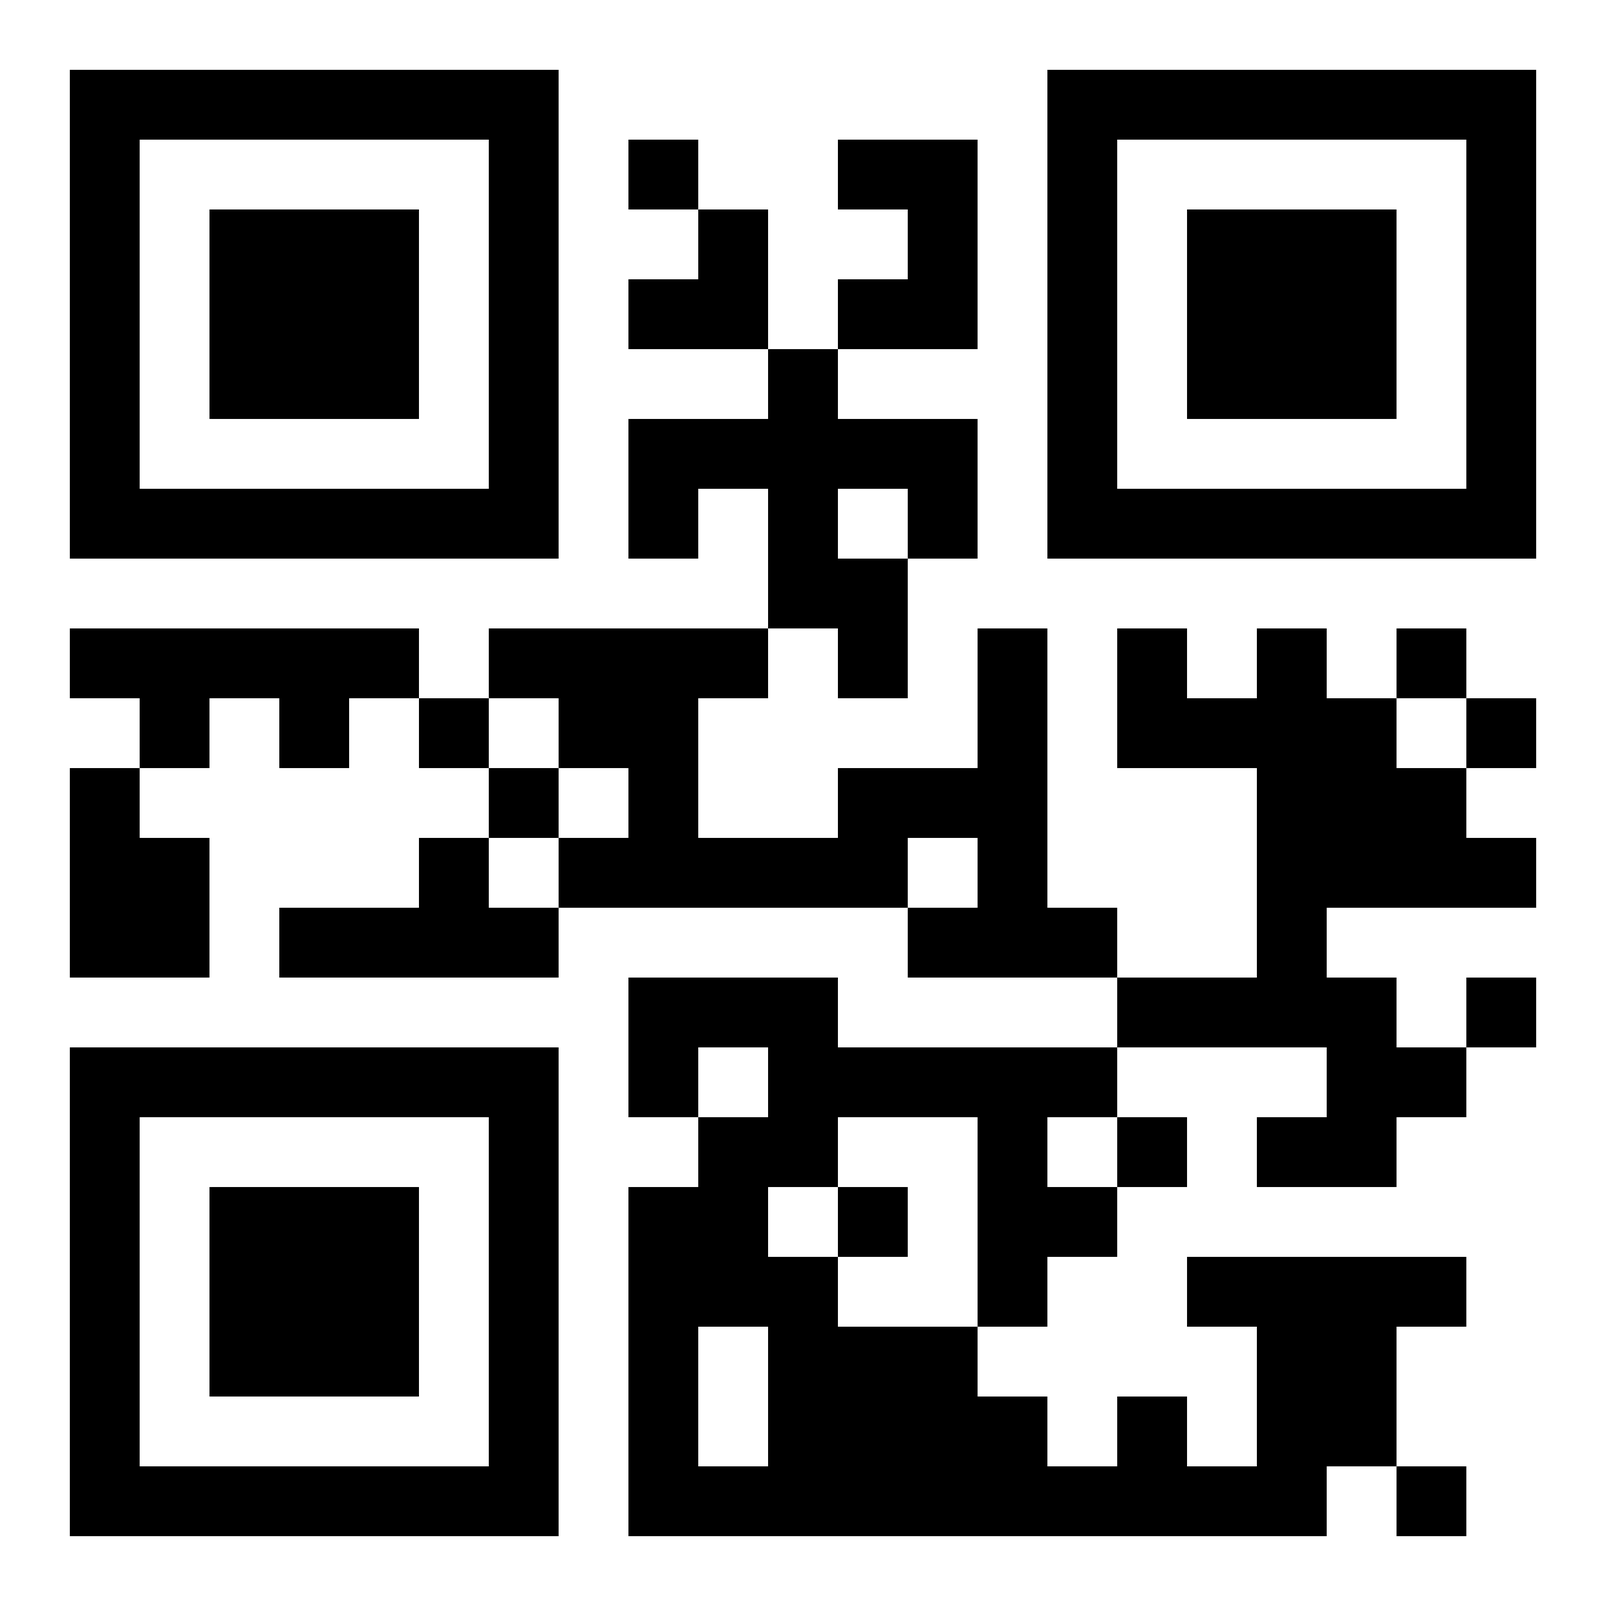
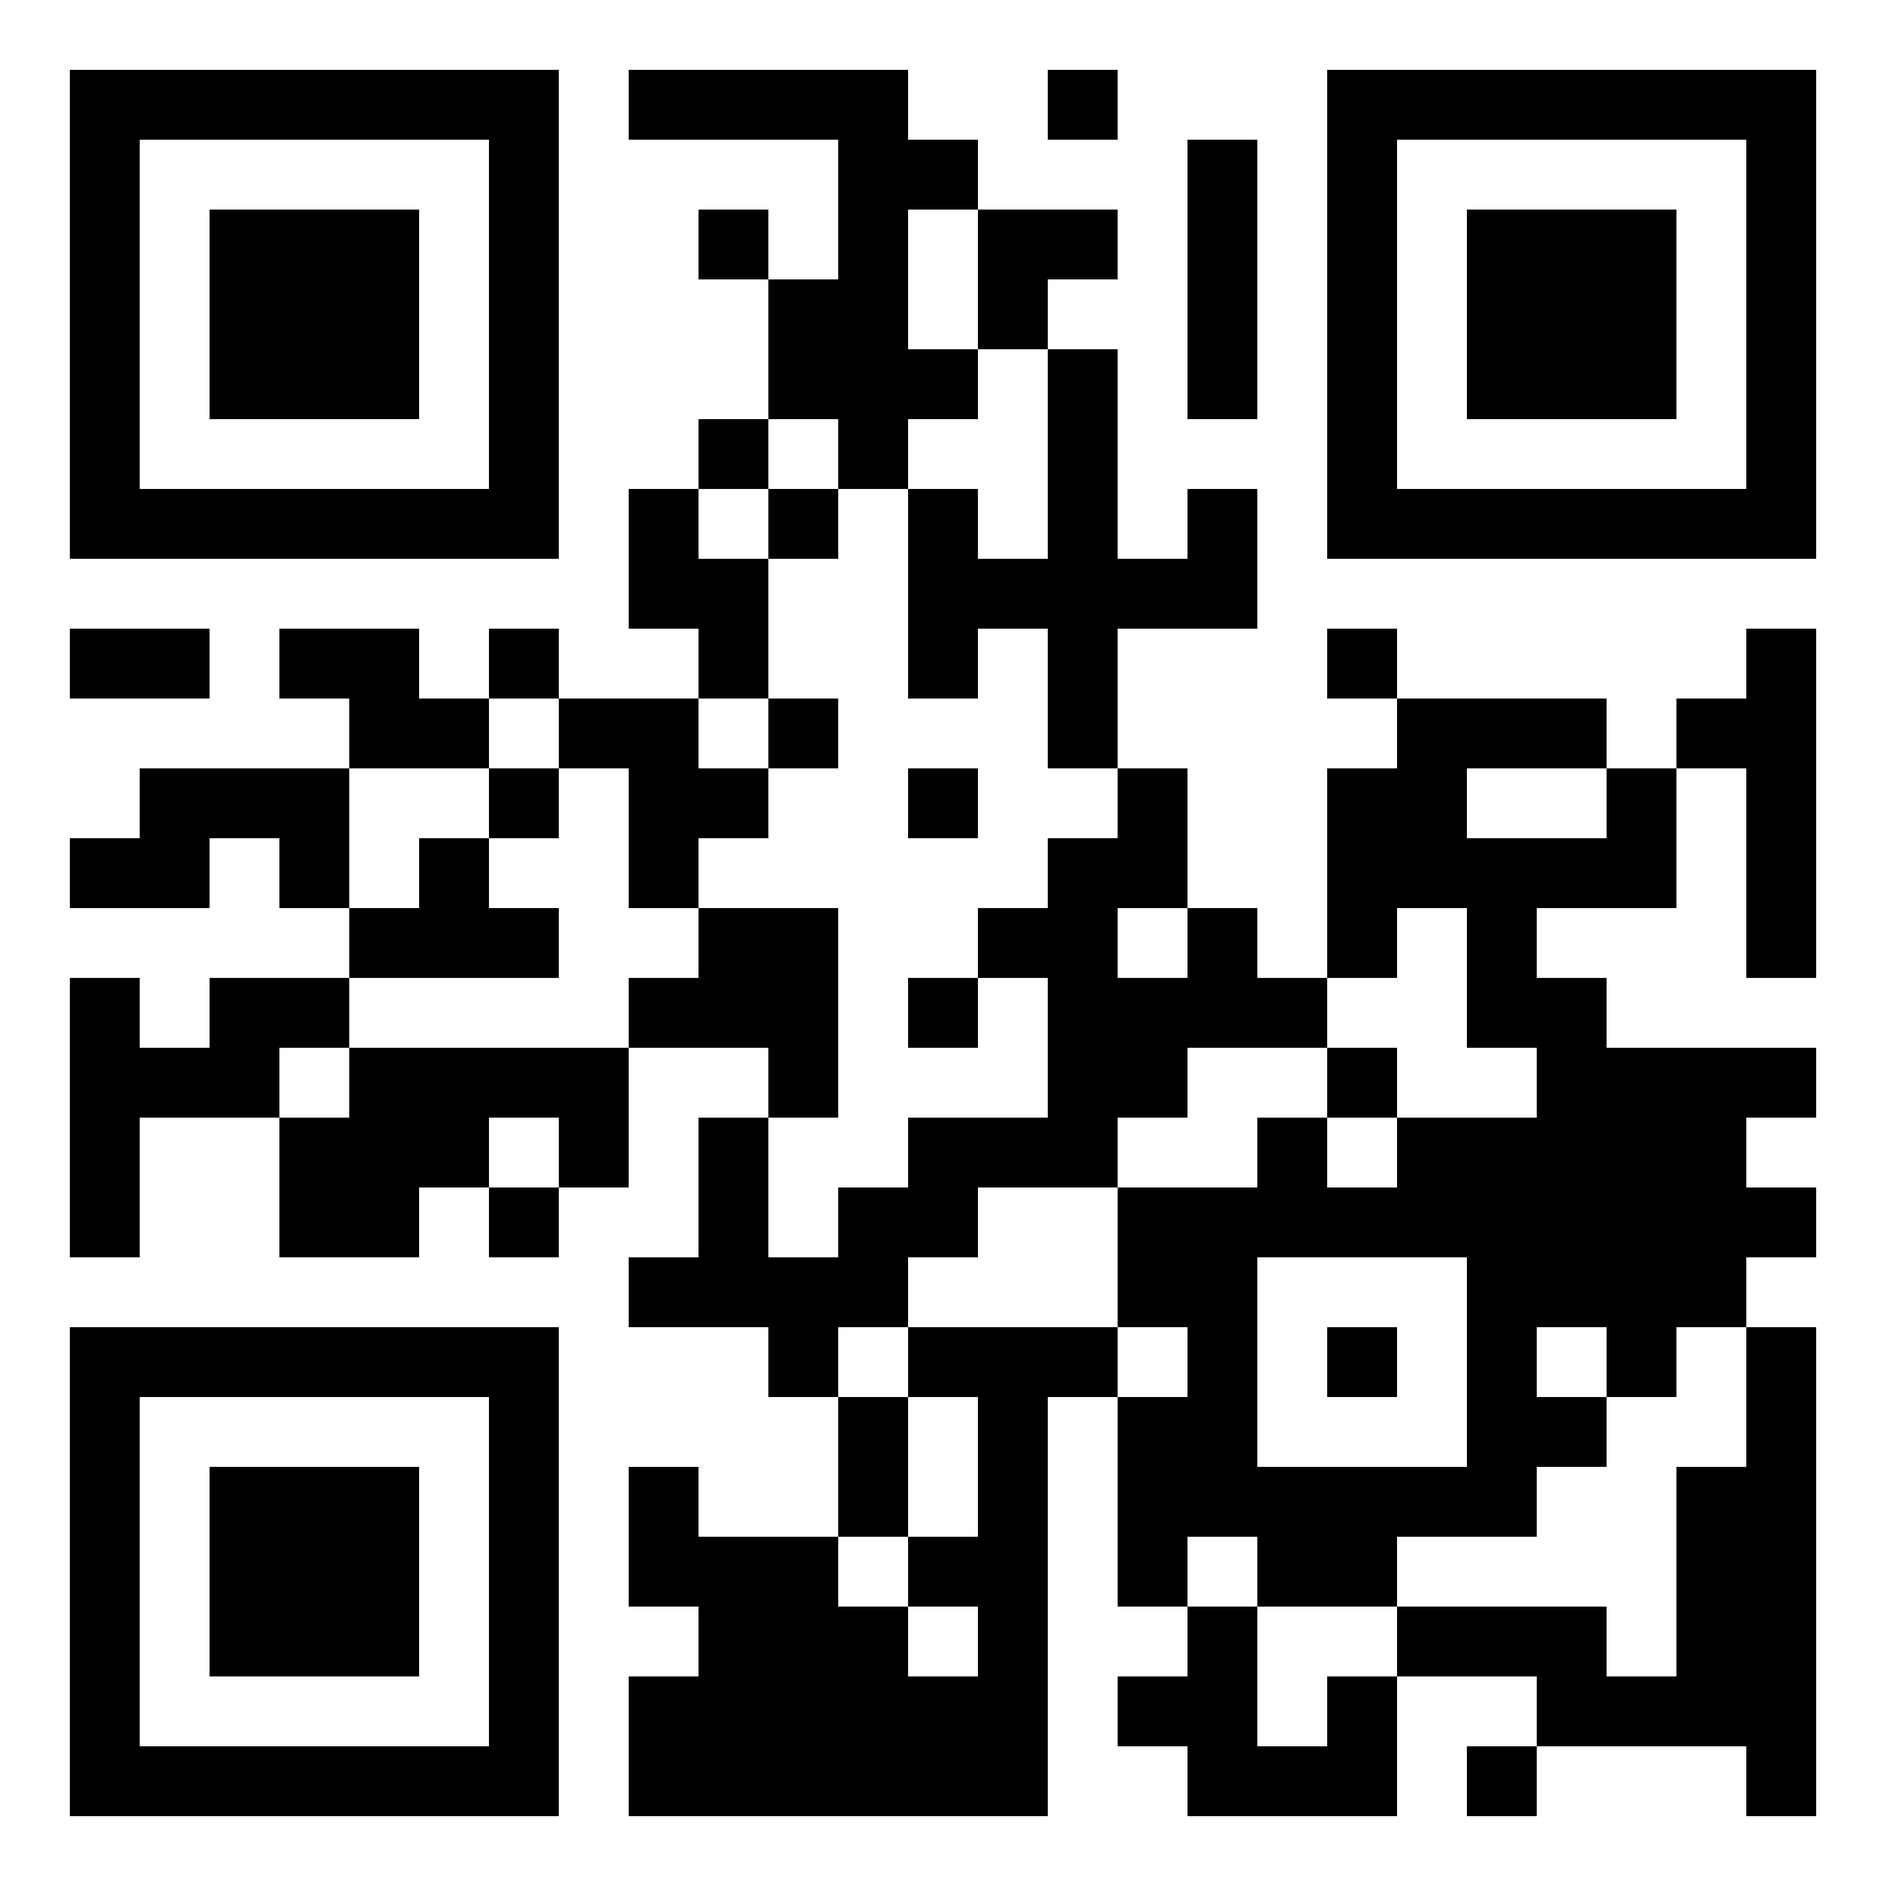
Modification du main

diff --git a/RaspberryPiApp/main.py b/RaspberryPiApp/main.py
@@ -8,11 +8,21 @@ class App(customtkinter.CTk):
     def __init__(self):
         super().__init__()
 
+        # app configuration
         self.geometry("835.8x583.8")
-        self.title("Liion")
+        self.title("LIION ASSIST")
         self.minsize(835.8, 583.8)
         self.maxsize(835.8, 583.8)
         self.configure(fg_color="#0F0332")
+
+        # activities(pages) configuration
+        self.default_text_color="#C9C5C5"
+        self.default_text_size=12
+        self.home_icon_dimen=50
+        self.default_icon_dimen=70
+        self.phone_sms_icon_dimen=self.default_icon_dimen
+        self.default_icon_frame_width=self.default_icon_dimen+15
+        self.default_icon_frame_height=self.default_icon_dimen+25
 
         # create 2x2 grid system
         self.grid_rowconfigure((0, 1, 2), weight=1)
@@ -24,30 +34,36 @@ class App(customtkinter.CTk):
         self.photo = customtkinter.CTkLabel(self.frame, image=logo, text="")
         self.photo.place(x=20, y=0)
         self.label1 = customtkinter.CTkLabel(self.frame, text="LIION ASSIST",
-                                             font=customtkinter.CTkFont(family="Inter", size=20))
-        self.label1.place(x=5, y=170)
+                                             font=customtkinter.CTkFont(family="Inter", size=20), text_color="#FFFFFF")
+        self.label1.place(x=0, y=170)
         self.label2 = customtkinter.CTkLabel(self.frame, text="STAY FOCUSED ON THE ROAD",
                                              font=customtkinter.CTkFont(family="Inter", size=9), text_color="#EAA623",
                                              anchor="n", justify="center")
         self.label2.place(x=0, y=195)
-        self.bouton_suivant = customtkinter.CTkButton(self, text="Suivant", width=50, height=20, command=self.fenetre_suivante1)
+        self.bouton_suivant = customtkinter.CTkButton(self, text="Suivant", width=50, height=20,
+                                                      command=self.fenetre_suivante1)
         self.bouton_suivant.grid(row=2, column=1)
 
+    def effacer(self):
+        for widget in self.winfo_children():
+            widget.grid_forget()
+
     def fenetre_suivante1(self):
-        self.bouton_suivant.grid_forget()
-        self.frame.grid_forget()
+        # self.bouton_suivant.grid_forget()
+        # self.frame.grid_forget()
+        self.effacer()
         self.grid_rowconfigure((0, 1, 2), weight=1)
         self.grid_columnconfigure((0, 1, 2), weight=1)
 
         text_instruction = """Pour connecter votre téléphone à votre console multimedia, suivez les étapes suivantes ci dessous: 
-        
-        1.  Ouvrir l'application LIION ASSIST sur votre smartphone; Bien vouloir la télécharger 
-             sur le Playstore si elle n'est pas encore installée;
-        2.  Autoriser l'accès à l'appareil photo, au WIFI, et au micro puis, cliquer sur le bouton
-             CONNECTER pour établir la connection;
-        3.  Scanner le code QR ci dessus;
-        4.  Une fois connecté, vous pouvez à présent jouir des fonctionnalités offertes par 
-             LIION ASSIST."""
+
+                1.  Ouvrez l'application LIION ASSIST sur votre smartphone; Bien vouloir la télécharger 
+                     sur le Playstore si elle n'est pas encore installée ;
+                2.  Autorisez l'accès à l'appareil photo, au WIFI, et au micro puis, cliquer sur le bouton
+                     CONNECTER pour établir la connection ;
+                3.  Positionnez votre téléphone face à la console pour scanner le code QR ci dessus ;
+                4.  Une fois connecté, vous pouvez à présent jouir des fonctionnalités offertes par 
+                     LIION ASSIST."""
 
         qr = qrcode.QRCode(
             version=1,
@@ -55,7 +71,7 @@ class App(customtkinter.CTk):
             box_size=150,
             border=1
         )
-        code = "cetexteestuncode"
+        code = "ce_texte_est_un_code"
         qr.add_data(code)
         qr.make(fit=True)
         img_qr = qr.make_image(fill_color="black", back_color="white")
@@ -67,18 +83,144 @@ class App(customtkinter.CTk):
         self.photo2 = customtkinter.CTkLabel(self.frame2, image=logo2, text="")
         self.photo2.place(x=10, y=0)
         self.label21 = customtkinter.CTkLabel(self.frame2, text="LIION ASSIST",
-                                             font=customtkinter.CTkFont(family="Inter", size=10), anchor="n")
+                                              font=customtkinter.CTkFont(family="Inter", size=10),
+                                              text_color="#FFFFFF", anchor="n")
         self.label21.place(x=2.5, y=85)
         self.label22 = customtkinter.CTkLabel(self.frame2, text="STAY FOCUSED ON THE ROAD",
-                                             font=customtkinter.CTkFont(family="Inter", size=5), text_color="#EAA623",
-                                             anchor="nw", justify="center")
+                                              font=customtkinter.CTkFont(family="Inter", size=5), text_color="#EAA623",
+                                              anchor="nw", justify="center")
         self.label22.place(x=0, y=97.5)
         img_qrcode = customtkinter.CTkImage(light_image=PIL.Image.open("images/qrcode.png"), size=(150, 150))
         self.qrframe = customtkinter.CTkLabel(self, width=150, height=150, image=img_qrcode, text="")
         self.qrframe.grid(row=1, column=1)
         self.label3 = customtkinter.CTkLabel(self, text=text_instruction, width=150,
-                                             font=customtkinter.CTkFont(family="Inter", size=12), justify=customtkinter.LEFT)
+                                             font=customtkinter.CTkFont(family="Inter", size=self.default_text_size),
+                                             text_color=self.default_text_color, justify=customtkinter.LEFT)
         self.label3.grid(row=3, column=1, pady=30)
+
+        self.bouton_suivant1 = customtkinter.CTkButton(self, text="Suivant", width=50, height=20,
+                                                       command=self.fenetre_suivante2)
+        self.bouton_suivant1.grid(row=4, column=1)
+
+    def fenetre_suivante2(self):
+        self.effacer()
+        self.bouton_suivant1.grid_forget()
+        self.grid_rowconfigure((0, 1), weight=1)
+        self.grid_columnconfigure((0, 1), weight=0)
+
+        # cadre des icones
+        self.barnav_frame = customtkinter.CTkFrame(self, width=self.default_icon_frame_width*7, # car, il y'a 7 icones
+                                                   height=self.default_icon_frame_height+50, fg_color="#FFFFFF")
+        self.barnav_frame.grid_rowconfigure(0, weight=1)
+        self.barnav_frame.grid_columnconfigure((0, 1, 2), weight=1)
+        self.barnav_frame.grid(row=3, column=1, pady=30, columnspan=2)
+
+        #
+        self.phone_frame = customtkinter.CTkFrame(self.barnav_frame, width=self.default_icon_frame_width, height=self.default_icon_frame_height, fg_color="#0F0332")
+        self.phone_frame.grid(row=0, column=1, padx=5)
+        img_phone = customtkinter.CTkImage(light_image=PIL.Image.open("images/phone.png"), size=(self.phone_sms_icon_dimen, self.phone_sms_icon_dimen))
+        self.image_phone = customtkinter.CTkButton(self.phone_frame, width=self.default_icon_dimen, height=self.default_icon_dimen,
+                                                   image=img_phone, text="", command=self.fenetre_suivante1, fg_color="#0F0332")
+        self.image_phone.place(x=0, y=0)
+        self.label_phone = customtkinter.CTkLabel(self.phone_frame, text="Telephone",
+                                                  font=customtkinter.CTkFont(family="Inter", size=self.default_text_size),
+                                                  text_color=self.default_text_color, anchor="n")
+        self.label_phone.place(x=7, y=self.phone_sms_icon_dimen+self.default_text_size)
+
+        #
+        self.gps_frame = customtkinter.CTkFrame(self.barnav_frame, width=self.default_icon_frame_width,
+                                                height=self.default_icon_frame_height, fg_color="#0F0332")
+        self.gps_frame.grid(row=0, column=2, padx=5)
+        img_gps = customtkinter.CTkImage(light_image=PIL.Image.open("images/gps.png"), size=(self.default_icon_dimen, self.default_icon_dimen))
+        self.image_gps = customtkinter.CTkButton(self.gps_frame, width=self.default_icon_dimen, height=self.default_icon_dimen,
+                                                 image=img_gps, text="", command=self.fenetre_suivante1, fg_color="#0F0332")
+        self.image_gps.place(x=0, y=0)
+        self.label_gps = customtkinter.CTkLabel(self.gps_frame, text="GPS",
+                                                font=customtkinter.CTkFont(family="Inter", size=self.default_text_size),
+                                                text_color=self.default_text_color, anchor="n")
+        self.label_gps.place(x=20, y=self.default_icon_dimen+self.default_text_size)
+
+        #
+        self.music_frame = customtkinter.CTkFrame(self.barnav_frame, width=self.default_icon_frame_width, height=self.default_icon_frame_height, fg_color="#0F0332")
+        self.music_frame.grid(row=0, column=3, padx=5)
+        img_music = customtkinter.CTkImage(light_image=PIL.Image.open("images/music.png"), size=(self.default_icon_dimen, self.default_icon_dimen))
+        self.image_music = customtkinter.CTkButton(self.music_frame, width=50, height=50, image=img_music, text="",
+                                                   command=self.fenetre_suivante1, fg_color="#0F0332")
+        self.image_music.place(x=0, y=0)
+        self.label_music = customtkinter.CTkLabel(self.music_frame, text="Musiques",
+                                                  font=customtkinter.CTkFont(family="Inter", size=self.default_text_size),
+                                                  text_color=self.default_text_color, anchor="n")
+        self.label_music.place(x=7, y=self.default_icon_dimen+self.default_text_size)
+
+        #
+        self.video_frame = customtkinter.CTkFrame(self.barnav_frame, width=self.default_icon_frame_width, height=self.default_icon_frame_height, fg_color="#0F0332")
+        self.video_frame.grid(row=0, column=4, padx=5)
+        img_video = customtkinter.CTkImage(light_image=PIL.Image.open("images/video.png"), size=(self.default_icon_dimen,self.default_icon_dimen))
+        self.image_video = customtkinter.CTkButton(self.video_frame, width=self.default_icon_dimen, height=self.default_icon_dimen,
+                                                   image=img_video, text="", command=self.fenetre_suivante1, fg_color="#0F0332")
+        self.image_video.place(x=0, y=0)
+        self.label_video = customtkinter.CTkLabel(self.video_frame, text="Videos",
+                                                  font=customtkinter.CTkFont(family="Inter", size=self.default_text_size),
+                                                  text_color=self.default_text_color, anchor="n")
+        self.label_video.place(x=14, y=self.default_icon_dimen+self.default_text_size)
+
+        #
+        self.settings_frame = customtkinter.CTkFrame(self.barnav_frame, width=self.default_icon_frame_width, height=self.default_icon_frame_height, fg_color="#0F0332")
+        self.settings_frame.grid(row=0, column=5, padx=5)
+        img_settings = customtkinter.CTkImage(light_image=PIL.Image.open("images/settings.png"), size=(self.default_icon_dimen, self.default_icon_dimen+5))
+        self.image_settings = customtkinter.CTkButton(self.settings_frame, width=self.phone_sms_icon_dimen, height=self.phone_sms_icon_dimen, image=img_settings,
+                                                      text="", command=self.fenetre_suivante1, fg_color="#0F0332")
+        self.image_settings.place(x=0, y=0)
+        self.label_settings = customtkinter.CTkLabel(self.settings_frame, text="Parametres",
+                                                     font=customtkinter.CTkFont(family="Inter", size=self.default_text_size),
+                                                     text_color=self.default_text_color, anchor="n")
+        self.label_settings.place(x=0, y=self.default_icon_dimen+self.default_text_size)
+
+        #
+        self.sms_frame = customtkinter.CTkFrame(self.barnav_frame, width=self.default_icon_frame_width, height=self.default_icon_frame_height, fg_color="#0F0332")
+        self.sms_frame.grid(row=0, column=6, padx=5)
+        img_sms = customtkinter.CTkImage(light_image=PIL.Image.open("images/sms.png"), size=(self.phone_sms_icon_dimen, self.phone_sms_icon_dimen))
+        self.image_sms = customtkinter.CTkButton(self.sms_frame, width=self.default_icon_dimen, height=self.default_icon_dimen, image=img_sms, text="",
+                                                 command=self.fenetre_suivante1, fg_color="#0F0332")
+        self.image_sms.place(x=0, y=0)
+        self.label_sms = customtkinter.CTkLabel(self.sms_frame, text="Messages",
+                                                font=customtkinter.CTkFont(family="Inter", size=self.default_text_size),
+                                                text_color=self.default_text_color, anchor="n")
+        self.label_sms.place(x=5, y=self.phone_sms_icon_dimen+self.default_text_size)
+
+        #
+        self.car_frame = customtkinter.CTkFrame(self.barnav_frame, width=self.default_icon_frame_width, height=self.default_icon_frame_height, fg_color="#0F0332")
+        self.car_frame.grid(row=0, column=7, padx=5)
+        img_car = customtkinter.CTkImage(light_image=PIL.Image.open("images/car.png"), size=(self.default_icon_dimen, self.default_icon_dimen))
+        self.image_car = customtkinter.CTkButton(self.car_frame, width=self.default_icon_dimen, height=self.default_icon_dimen, image=img_car, text="",
+                                                 command=self.fenetre_suivante1, fg_color="#0F0332")
+        self.image_car.place(x=0, y=0)
+        self.label_car = customtkinter.CTkLabel(self.car_frame, text="Voiture",
+                                                font=customtkinter.CTkFont(family="Inter", size=self.default_text_size),
+                                                text_color=self.default_text_color, anchor="n")
+        self.label_car.place(x=15, y=self.default_icon_dimen+self.default_text_size)
+
+        # cadre barre verticale de taches
+        self.barinf_cadre = customtkinter.CTkFrame(self, corner_radius=0, fg_color="#39585B")
+        self.barinf_cadre.grid(row=0, column=0, rowspan=3)
+
+        self.barinf_frame = customtkinter.CTkFrame(self.barinf_cadre, width=self.home_icon_dimen+30, height=583.8,
+                                                   corner_radius=0, fg_color="#49585B")
+        self.barinf_frame.grid(row=0, column=0)
+        self.barinf_frame.grid_rowconfigure((0, 1, 2), weight=1)
+        self.barinf_frame.grid_columnconfigure(0, weight=1)
+
+        #
+        self.home_frame = customtkinter.CTkFrame(self.barinf_frame, width=self.home_icon_dimen,
+                                                 height=self.home_icon_dimen, fg_color="#59585B")
+        self.home_frame.grid(row=0, column=0)
+
+
+        img_home = customtkinter.CTkImage(light_image=PIL.Image.open("images/home.png"), size=(self.home_icon_dimen,
+                                                                                               self.home_icon_dimen))
+        self.image_home = customtkinter.CTkButton(self.home_frame, width=self.home_icon_dimen, height=self.home_icon_dimen,
+                                                  image=img_home, text="", command=self.quit, fg_color="#59585B")
+        self.image_home.grid(row=10, column=0)
 
 
 if __name__ == "__main__":
